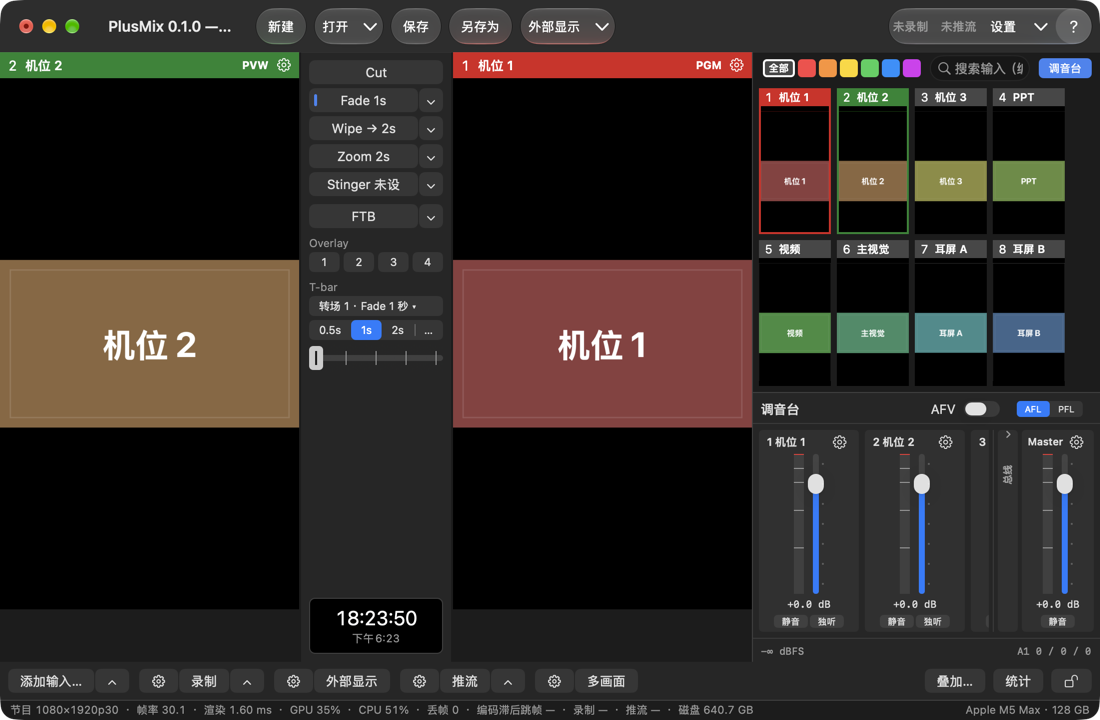
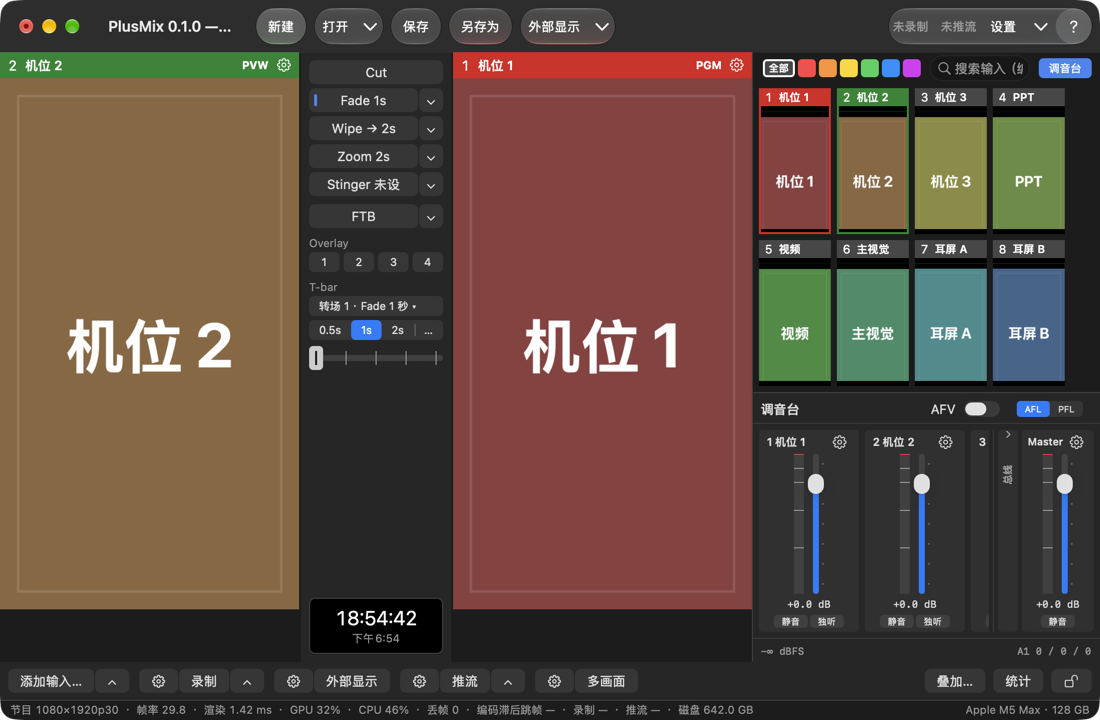
W6-A：检查点 1 评审前补拍截图——测试卡的形状跟着画布走
STG 会话核对后要求：竖屏和宽墙的几张原来用 16:9 测试卡，画面里大片黑，用户会当成排布有问题。
只改截图巡回 LayoutShotTour：竖屏画布 12 路换 9:16 竖卡（监看铺满）；20.5:9 / 48:9 的墙把第 6 路
"主视觉"换成和墙同形状的卡、放 PGM，PVW 仍是 16:9 的"机位 2"（一张图里看得到铺满和两边留黑）；
16:9 与 1366×762 不变。换到要另一套卡的画布前先原地重写那几路图片，再换画布（图片输入按路径重新解码）。
重拍 28 张，文件名、张数、shots.tsv 都不变（shots.tsv 逐字节相同）。报告 §2.5 写了测试卡的形状，
§4 加一条：竖小格换了竖卡还剩几点细黑边（小格框 = 画布形状，缩略图切的是多画面那一格），这次没改。

diff --git a/App/Sources/UI/LayoutShotTour.swift b/App/Sources/UI/LayoutShotTour.swift
@@ -4,6 +4,11 @@
 // 加 12 路图片输入（彩色底 + 名字），一张一张摆好（画布、窗口大小、调音台开收、新 / 旧排布），用 screencapture -l <窗口号> 只截自己的窗口，
 // 文件名"窗口-画布-调音台[-说明].png"，写一份清单 shots.tsv（每张的摆法、中间那一列的档、画面尺寸……），然后退出。
 // 没有这个变量什么都不做；只在测试宿主模式下认它（正常启动的 App 不会被一个环境变量带着截图）。不用示意图代替。
+// 测试卡的形状跟着画布走（检查点 1 评审前 STG 会话要求：16:9 卡放进竖屏 / 宽墙画布，画面里大片黑，会被当成排布有问题）：
+//   16:9 与 1366×762 画布：12 路都是 16:9 的卡，PGM = 机位 1、PVW = 机位 2；
+//   竖屏画布：12 路都是 9:16 的竖卡（监看铺满），PGM / PVW 同上；
+//   20.5:9 / 48:9 的墙：第 6 路"主视觉"换成和画布同形状的卡（铺满整幅）放 PGM，PVW 仍是 16:9 的"机位 2"（看得到两边留黑），其余各路 16:9。
+// 换到要另一套卡的画布之前先把那几路的图片文件原地重写，再换画布（换 session 时图片输入按路径重新解码）。
 import AppKit
 import SwitcherContracts
 
@@ -27,6 +32,43 @@ enum LayoutShotTour {
     }
 
     static let windows = [NSSize(width: 1100, height: 720), NSSize(width: 1440, height: 900), NSSize(width: 1728, height: 1117), NSSize(width: 2560, height: 1440)]
+
+    /// 12 路输入的名字（截图里看得出哪一路在哪）。第 6 路"主视觉"在墙上铺满整幅。
+    static let inputNames = ["机位 1", "机位 2", "机位 3", "PPT", "视频", "主视觉", "耳屏 A", "耳屏 B", "机位 4", "字幕", "采集卡", "备用"]   // l10n-exempt：截图用的输入名
+    static let keyVisualInput = 6
+
+    /// 这张画布用哪一套测试卡（见文件头）。
+    enum CardSet: Equatable {
+        /// 12 路都是 16:9。
+        case landscape
+        /// 12 路都是 9:16。
+        case portrait
+        /// 第 6 路是和墙同形状的卡（宽 : 高 = w : h），其余 16:9。
+        case wall(w: Int, h: Int)
+    }
+
+    static func cardSet(for canvas: (w: Int, h: Int)) -> CardSet {
+        if canvas.w < canvas.h { return .portrait }
+        if (canvas.w, canvas.h) == (2460, 1080) || (canvas.w, canvas.h) == (5760, 1080) { return .wall(w: canvas.w, h: canvas.h) }
+        return .landscape
+    }
+
+    /// 第 n 路在这一套里的图片尺寸（像素）：16:9 = 1280×720，9:16 = 720×1280，墙 = 720 高、按墙的比例宽。
+    static func cardSize(input: Int, in set: CardSet) -> NSSize {
+        switch set {
+        case .landscape: return NSSize(width: 1280, height: 720)
+        case .portrait: return NSSize(width: 720, height: 1280)
+        case .wall(let w, let h):
+            guard input == keyVisualInput else { return NSSize(width: 1280, height: 720) }
+            return NSSize(width: (720 * CGFloat(w) / CGFloat(h)).rounded(), height: 720)
+        }
+    }
+
+    /// PGM 放哪一路：墙上放铺满的"主视觉"，别的画布放机位 1。PVW 都是机位 2。
+    static func programInput(for set: CardSet) -> Int {
+        if case .wall = set { return keyVisualInput }
+        return 1
+    }
 
     /// 清单（prompt 144 交付 11）：横屏 4 种窗口 × 调音台开 / 收；竖屏 3 种窗口；1366×762、2460×1080、5760×1080 各一组（四种窗口）；
     /// 中间那一列四档都在里面（1440×900 配 16:9 = 全、1440×900 配 20.5:9 = 不带时钟、1100×720 配 16:9 = 紧凑、1100×720 配 20.5:9 = 最小）；新 / 旧排布对照一组。
@@ -68,24 +110,29 @@ enum LayoutShotTour {
         NSApp.activate(ignoringOtherApps: true)
         window.makeKeyAndOrderFront(nil)
         window.allowsFrameBeyondVisibleArea = true
-        // 12 路图片输入（彩色底 + 名字）：PGM 1、PVW 2，看得出 tally
+        // 12 路图片输入（彩色底 + 名字），先按第一张的画布写一套卡
         let images = output.appendingPathComponent(".inputs", isDirectory: true)
         try? FileManager.default.createDirectory(at: images, withIntermediateDirectories: true)
-        let names = ["机位 1", "机位 2", "机位 3", "PPT", "视频", "主视觉", "耳屏 A", "耳屏 B", "机位 4", "字幕", "采集卡", "备用"]   // l10n-exempt：截图用的输入名
-        for (i, name) in names.enumerated() {
-            let url = images.appendingPathComponent("input-\(i + 1).png")
-            writeImage(to: url, name: name, hue: CGFloat(i) / CGFloat(names.count))
-            session.send(.addInput(config: InputConfig(number: i + 1, name: name, source: .image(path: url.path))))
+        var cards = cardSet(for: plan.first?.canvas ?? (1920, 1080))
+        writeCards(cards, into: images, onlyChangedFrom: nil)
+        for (i, name) in inputNames.enumerated() {
+            session.send(.addInput(config: InputConfig(number: i + 1, name: name, source: .image(path: cardURL(i + 1, in: images).path))))
         }
-        for _ in 0..<100 where session.state.inputs.count < names.count { await sleep(0.05) }
-        setTally(session)
+        for _ in 0..<100 where session.state.inputs.count < inputNames.count { await sleep(0.05) }
+        setTally(session, cards: cards)
         var rows = ["文件\t窗口\t画布\t调音台\t排布\t摆法\t中间那一列\t画面\t上半区\t下边一行\t监看下面空"]   // l10n-exempt：清单表头
         for shot in plan {
             let format = ProgramFormat(width: shot.canvas.w, height: shot.canvas.h, frameRate: .fps30)
+            // 这张画布要另一套卡：先原地重写那几路的图片，换画布（换 session）时图片输入按路径重新读
+            let wanted = cardSet(for: shot.canvas)
+            if wanted != cards {
+                writeCards(wanted, into: images, onlyChangedFrom: cards)
+                cards = wanted
+            }
             if controller.session?.format != format {
                 await controller.changeProgramFormat(format)
                 for _ in 0..<200 where controller.session?.isRunning != true { await sleep(0.05) }
-                if let s = controller.session { setTally(s) }
+                if let s = controller.session { setTally(s, cards: cards) }
                 await sleep(1.0)
             }
             wc.setArrangement(shot.arrangement)
@@ -103,10 +150,25 @@ enum LayoutShotTour {
         try? FileManager.default.removeItem(at: images)
     }
 
-    /// PGM 1、PVW 2（已经是了就不发：重复的命令状态行会提示"命令被忽略"，截进图里）。
-    private static func setTally(_ session: SwitcherSession) {
-        if session.state.program != 1 { session.send(.setProgram(input: 1)) }
+    /// PGM（墙 = 主视觉，别的 = 机位 1）、PVW = 机位 2；已经是了就不发（重复的命令状态行会提示"命令被忽略"，截进图里）。
+    private static func setTally(_ session: SwitcherSession, cards: CardSet) {
+        let program = programInput(for: cards)
+        if session.state.program != program { session.send(.setProgram(input: program)) }
         if session.state.preview != 2 { session.send(.setPreview(input: 2)) }
+    }
+
+    private static func cardURL(_ input: Int, in directory: URL) -> URL {
+        directory.appendingPathComponent("input-\(input).png")
+    }
+
+    /// 写一套卡（previous 给了就只重写尺寸变了的那几路）。
+    private static func writeCards(_ set: CardSet, into directory: URL, onlyChangedFrom previous: CardSet?) {
+        for (i, name) in inputNames.enumerated() {
+            let n = i + 1
+            let size = cardSize(input: n, in: set)
+            if let previous, cardSize(input: n, in: previous) == size { continue }
+            writeImage(to: cardURL(n, in: directory), name: name, hue: CGFloat(i) / CGFloat(inputNames.count), size: size)
+        }
     }
 
     /// 窗口摆成正好这么大：屏幕放得下就靠可见区左上，放不下（2560×1440 的窗口在 2560×1440 的屏上）就从屏幕左上角摆。
@@ -148,9 +210,8 @@ enum LayoutShotTour {
         return [shot.fileName, window, canvas, mixer, "新排布", mode, tier, pictureText, fmt(r.topHeight), fmt(r.bottomHeight), fmt(r.slack)].joined(separator: "\t")   // l10n-exempt：清单
     }
 
-    /// 一张 1280×720 的图：彩色底、正中写名字（截图里看得出哪一路在哪）。
-    private static func writeImage(to url: URL, name: String, hue: CGFloat) {
-        let size = NSSize(width: 1280, height: 720)
+    /// 一张卡：彩色底、细框、正中写名字（截图里看得出哪一路在哪）。尺寸按这张画布的那一套（cardSize）。
+    private static func writeImage(to url: URL, name: String, hue: CGFloat, size: NSSize) {
         guard let rep = NSBitmapImageRep(bitmapDataPlanes: nil, pixelsWide: Int(size.width), pixelsHigh: Int(size.height), bitsPerSample: 8,
                                          samplesPerPixel: 4, hasAlpha: true, isPlanar: false, colorSpaceName: .deviceRGB, bytesPerRow: 0, bitsPerPixel: 0) else { return }
         NSGraphicsContext.saveGraphicsState()
